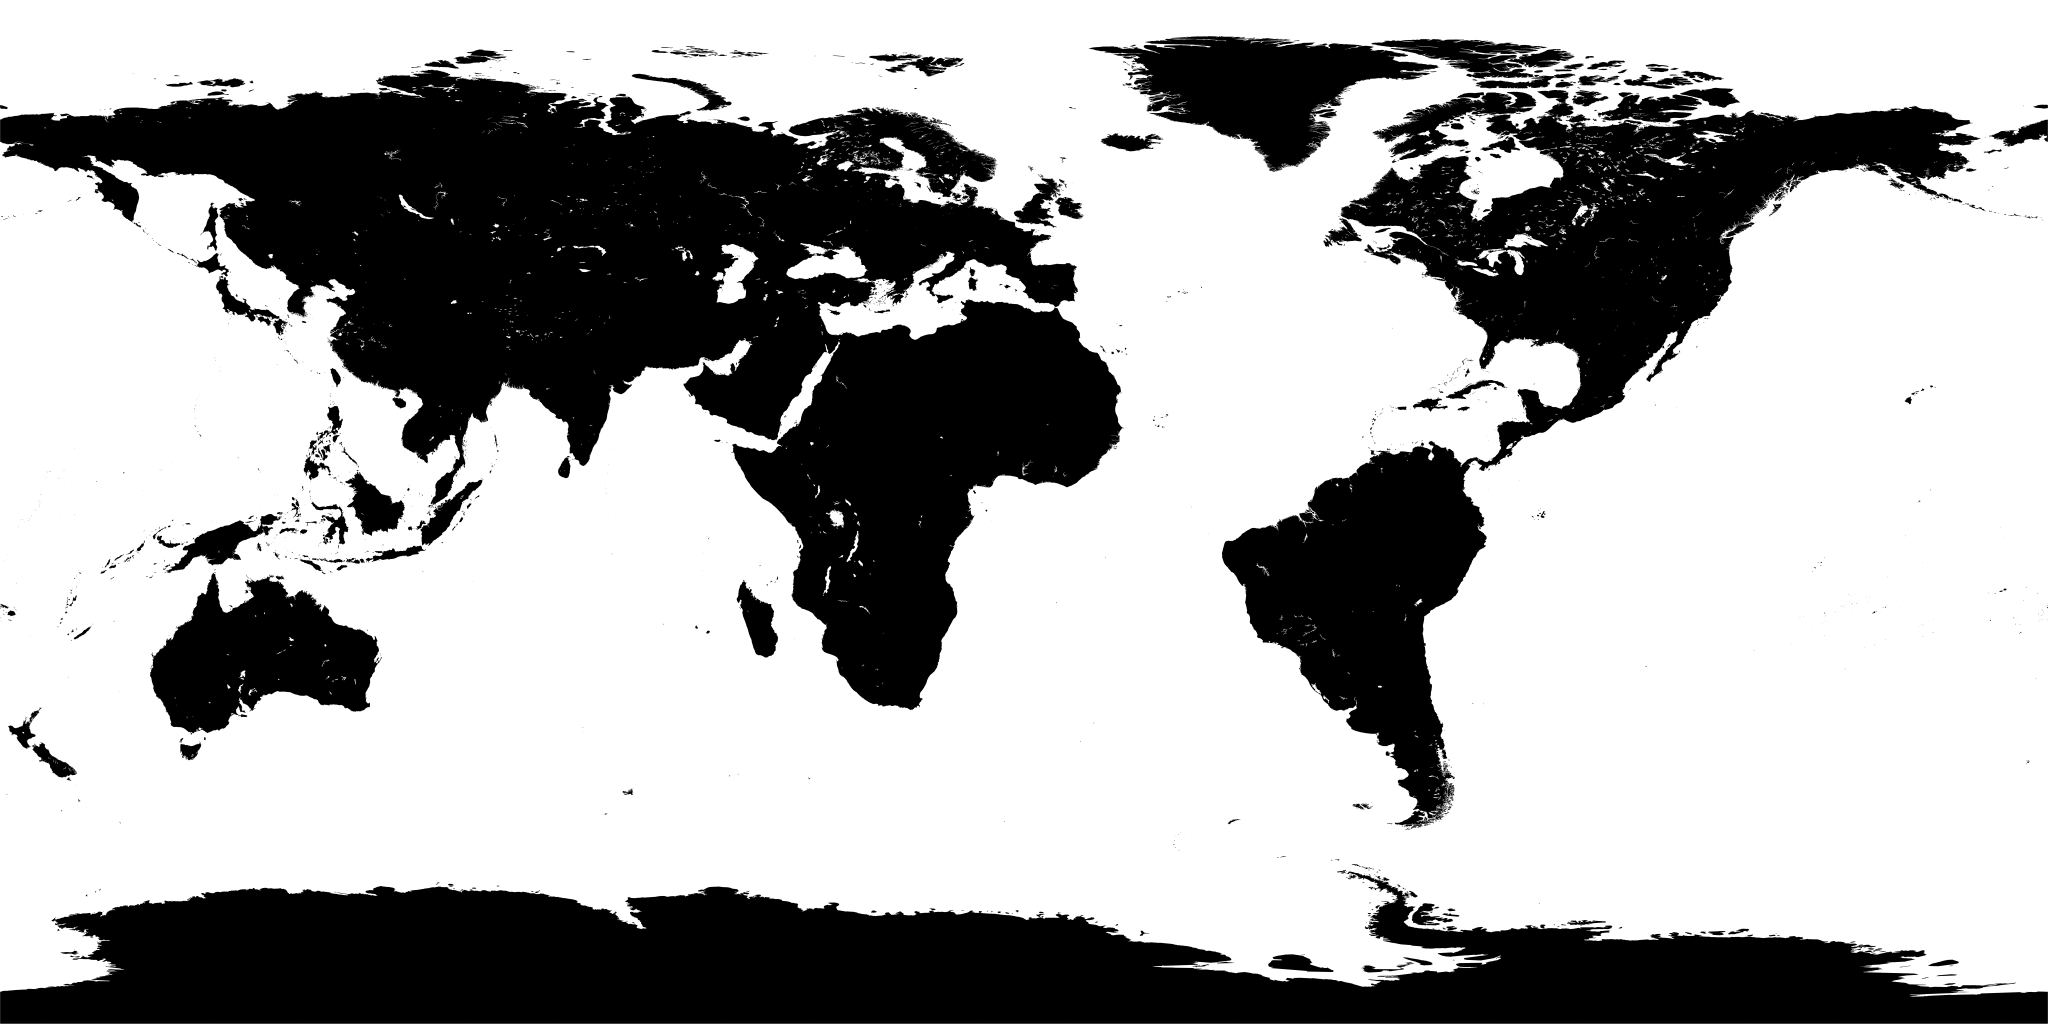
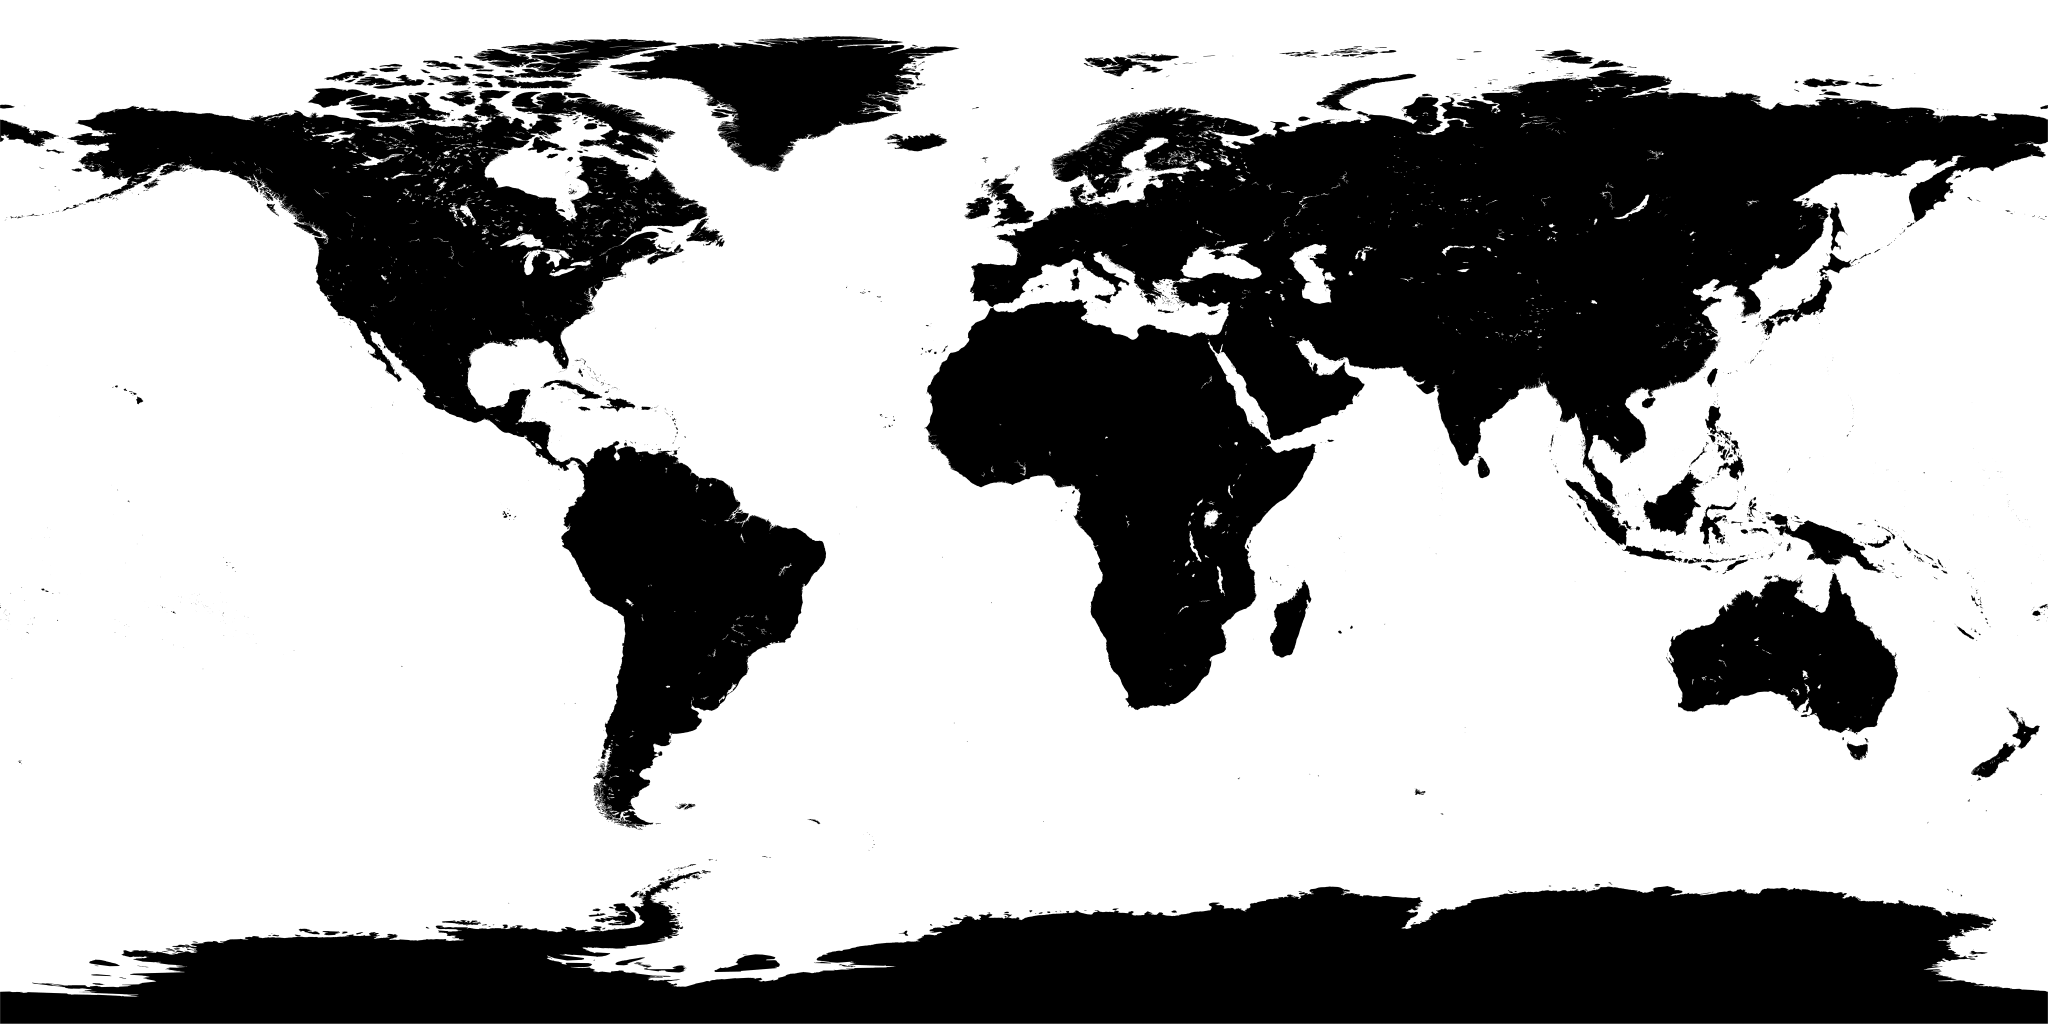
fix(frontend): sample the land mask the way the GPU samples the globe
Two bugs that cancelled each other out, which is why the map looked right and
why the specular asset had to be flipped by hand to get there.

loadMap called data.reverse() on the raw pixel buffer. That is not a vertical
flip: reversing every byte rotates the image 180 degrees and reverses the RGB
channel order per pixel. The channel order does not matter for a greyscale map,
and the vertical half happened to be what the UV convention needed, so what
actually reached isLand was the map mirrored east-west.

The asset was mirrored east-west too. Two mirrors cancel, so the generated
tiles landed on the visible continents and nothing looked wrong — until anyone
touched either side alone.

Both are now correct independently. static/earth/2k_earth_specular_map.png is
un-mirrored, so it matches the earth texture beside it, and isLand indexes the
image directly:

- The globe and the dots are both IcosahedronGeometry, so they share UVs, and
  v = 1 is the north pole (verified against the geometry, not assumed).
  Three.js loads textures with flipY = true, so v = 1 is the image's top row —
  hence height - 1 - v * height.
- channels comes from sharp instead of being hardcoded to 3, so an RGBA map
  no longer silently reads the wrong bytes.
- x and y are clamped. u is exactly 1.0 on the seam vertices and
  floor(1.0 * width) is one past the last column; unclamped it wrapped into
  the first column of the next row.
[…]

diff --git a/apps/frontend/scripts/computeCoordinates.ts b/apps/frontend/scripts/computeCoordinates.ts
@@ -15,9 +15,9 @@ const detail = parseInt(args[0]);
 const mapFilePath = args[1];
 const threshold = args[2] ? parseInt(args[2]) : 128;
 
-loadMap().then(({pixels, width, height}) => {
+loadMap().then(({pixels, width, height, channels}) => {
     const baseCoordinates = generateBaseCoordinates(detail);
-    const landCoordinates = filterOutCoordinatesNotOnLand(baseCoordinates, pixels, width, height);
+    const landCoordinates = filterOutCoordinatesNotOnLand(baseCoordinates, pixels, width, height, channels);
 
     // The JSON stays the human-readable generator output kept in the repo; only
     // the binary is shipped, so both are written from the same run to keep them
@@ -35,9 +35,9 @@ type Coordinates = {
     length: number;
 }
 
-async function loadMap(): Promise<{ pixels: Uint8Array; width: number; height: number }> {
+async function loadMap(): Promise<{ pixels: Uint8Array; width: number; height: number; channels: number }> {
     const {data, info} = await sharp(mapFilePath).raw().toBuffer({resolveWithObject: true});
-    return {pixels: data.reverse(), width: info.width, height: info.height};
+    return {pixels: data, width: info.width, height: info.height, channels: info.channels};
 }
 
 function generateBaseCoordinates(detail: number): Coordinates {
@@ -71,12 +71,12 @@ function generateBaseCoordinates(detail: number): Coordinates {
     };
 }
 
-function filterOutCoordinatesNotOnLand(coordinates: Coordinates, pixels: Uint8Array, width: number, height: number): Coordinates {
+function filterOutCoordinatesNotOnLand(coordinates: Coordinates, pixels: Uint8Array, width: number, height: number, channels: number): Coordinates {
     const newPositions = [];
     const newUVs = [];
 
     for (let i = 0; i < coordinates.positions.length / 3; i++) {
-        if (isLand(coordinates.uvs[i * 2], coordinates.uvs[i * 2 + 1], pixels, width, height)) {
+        if (isLand(coordinates.uvs[i * 2], coordinates.uvs[i * 2 + 1], pixels, width, height, channels)) {
             newPositions.push(
                 coordinates.positions[i * 3],
                 coordinates.positions[i * 3 + 1],
@@ -100,9 +100,27 @@ function filterOutCoordinatesNotOnLand(coordinates: Coordinates, pixels: Uint8Ar
     }
 }
 
-function isLand(u: number, v: number, pixels: Uint8Array, width: number, height: number): boolean {
-    const x = Math.floor(u * width);
-    const y = Math.floor(v * height);
-    const index = (y * width + x) * 3;
+// Samples the map the same way the GPU samples the earth texture, so the dots
+// land where the visible continents are.
+//
+// The globe and the dots are both IcosahedronGeometry, so they share UVs, and
+// v = 1 is the north pole. Three.js loads textures with flipY = true, so v = 1
+// reads the TOP row of the image — hence height - 1 - (v * height), not
+// v * height.
+//
+// Both coordinates are clamped. u reaches exactly 1.0 on the seam vertices,
+// and floor(1.0 * width) is one past the last column: unclamped it silently
+// wraps into the first column of the next row and misclassifies those tiles.
+function isLand(
+    u: number,
+    v: number,
+    pixels: Uint8Array,
+    width: number,
+    height: number,
+    channels: number,
+): boolean {
+    const x = Math.min(Math.floor(u * width), width - 1);
+    const y = Math.min(Math.max(height - 1 - Math.floor(v * height), 0), height - 1);
+    const index = (y * width + x) * channels;
     return pixels[index] < threshold
 }
